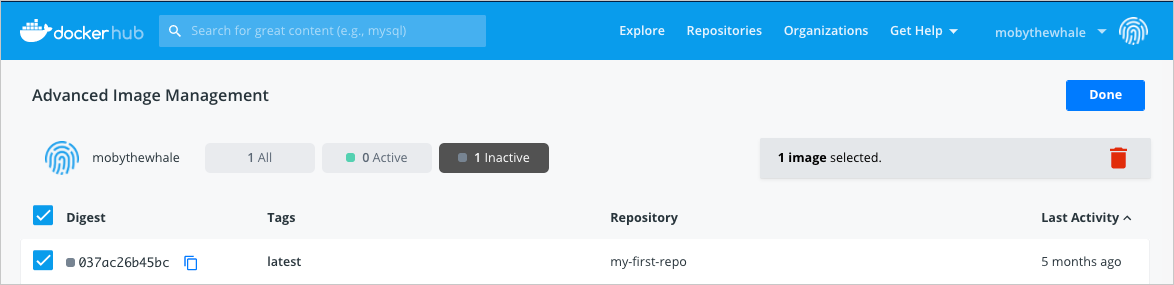
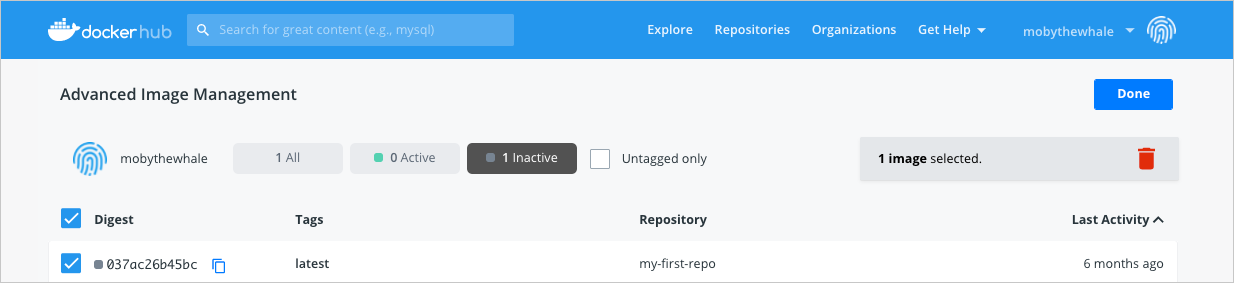
最新対応: (https://github.com/docker/docker.github.io/commit/b3af594515)

diff --git a/docs/docker-hub/image-management/index.html b/docs/docker-hub/image-management/index.html
@@ -1,4 +1,4 @@
-<!-- Page generated 2021-05-11 13:45:22 +0900-->
+<!-- Page generated 2021-05-12 18:33:45 +0900-->
 <!DOCTYPE html>
 <html lang="ja"><head>
   <meta http-equiv="Content-Type" content="text/html; charset=UTF-8"><title>拡張イメージ管理ダッシュボード | Docker ドキュメント</title>
@@ -39,12 +39,12 @@
   <meta property="og:title" content="拡張イメージ管理ダッシュボード" />
   <meta property="og:description" content="拡張イメージ管理ダッシュボード。" />
   <meta property="og:type" content="website"/>
-  <meta property="og:updated_time" itemprop="dateUpdated" content="2021-05-11T13:45:22+09:00"/>
+  <meta property="og:updated_time" itemprop="dateUpdated" content="2021-05-12T18:33:45+09:00"/>
   <meta property="og:image" itemprop="image primaryImageOfPage" content="/docs.docker.jp.onthefly/images/docs@2x.png"/>
   <meta property="og:locale" content="ja_JP" />
   <meta property="og:url" content="https://matsuand.github.io/docs.docker.jp.onthefly/docker-hub/image-management/" />
   <meta property="og:site_name" content="Docker ドキュメント" />
-  <meta property="article:published_time" itemprop="datePublished" content="2021-05-11T13:45:22+09:00"/>
+  <meta property="article:published_time" itemprop="datePublished" content="2021-05-12T18:33:45+09:00"/>
   <script type="application/ld+json">{"@context":"http://schema.org","@type":"WebPage","headline":"拡張イメージ管理ダッシュボード","description":"拡張イメージ管理ダッシュボード。","url":"https://docs.docker.com/docker-hub/image-management/"}</script>
   <!-- END SEO STUFF -->
 </head>
@@ -145,7 +145,7 @@ Docker Hub にイメージをプッシュするということは、そのイメ
     <p><strong>View inactive images</strong>（非アクティブイメージの表示）をクリックします。
 すると拡張イメージ管理ダッシュボードが開きます。
 ここにはリポジトリ内のイメージが一覧表示されます。
-この一覧では並べ替えを行ったり、アクティビティ状態や最終アクティビティ日付を使ってフィルター検索を行ったりすることができます。</p>
+この一覧では並べ替えを行ったり、タグ、アクティビティ状態、最終アクティビティ日付を使ってフィルター検索を行うことができます。</p>
 
     <blockquote>
       <p>拡張イメージ管理ダッシュボードを利用するためには、プロユーザーまたはチームユーザーとしてログインしなければなりません。
